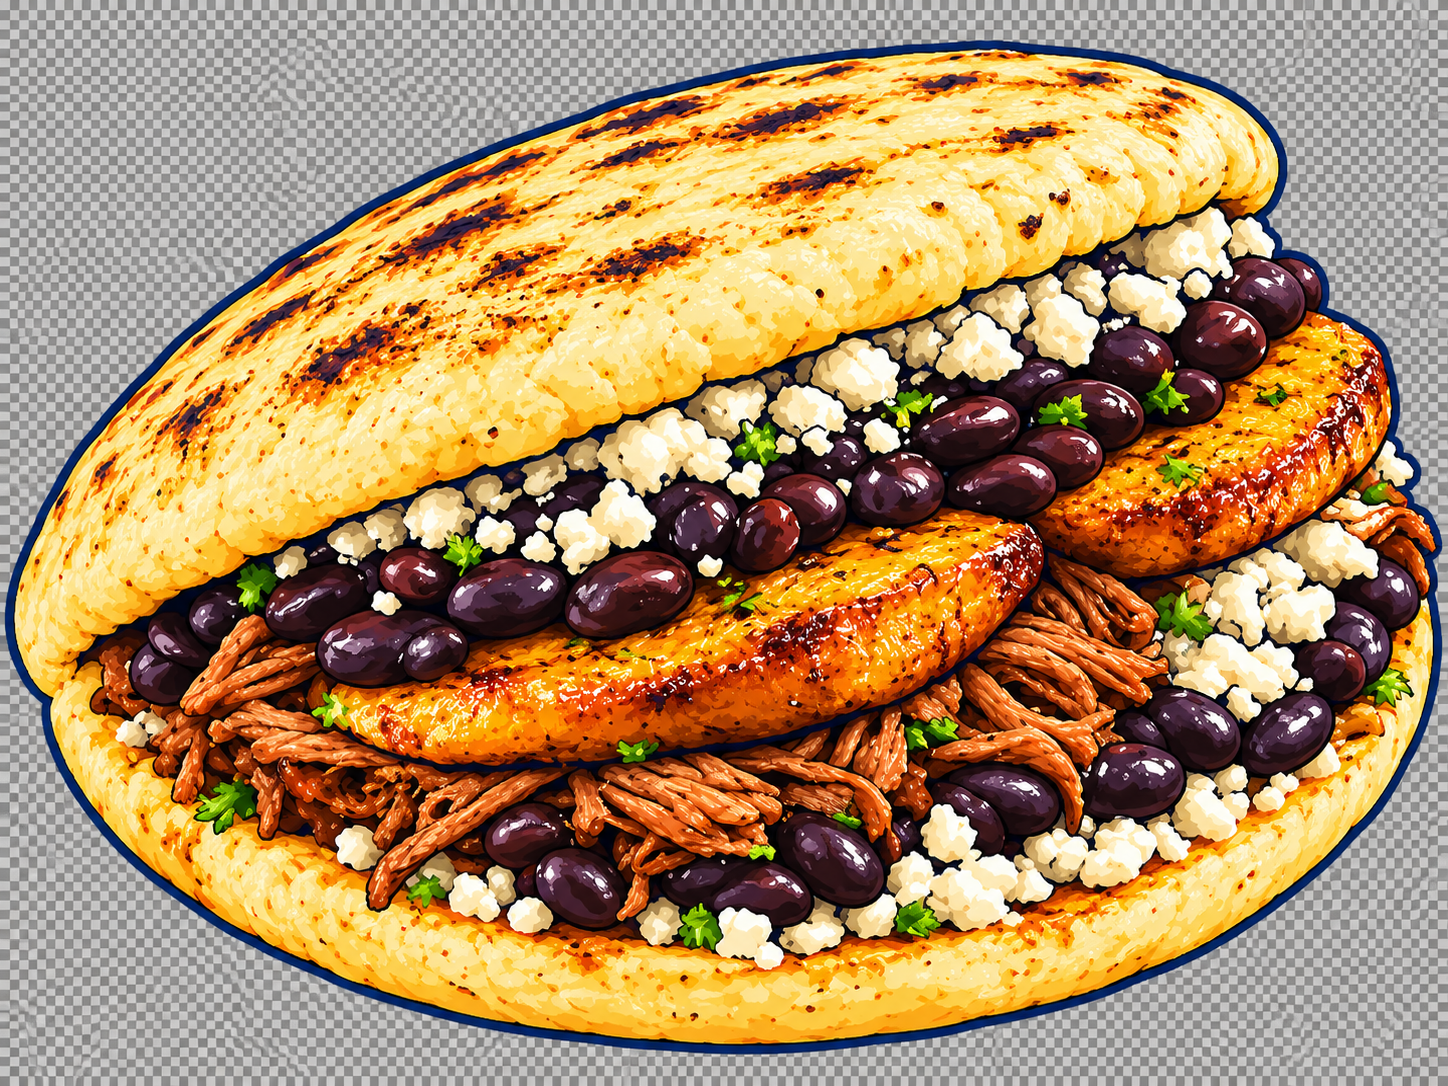
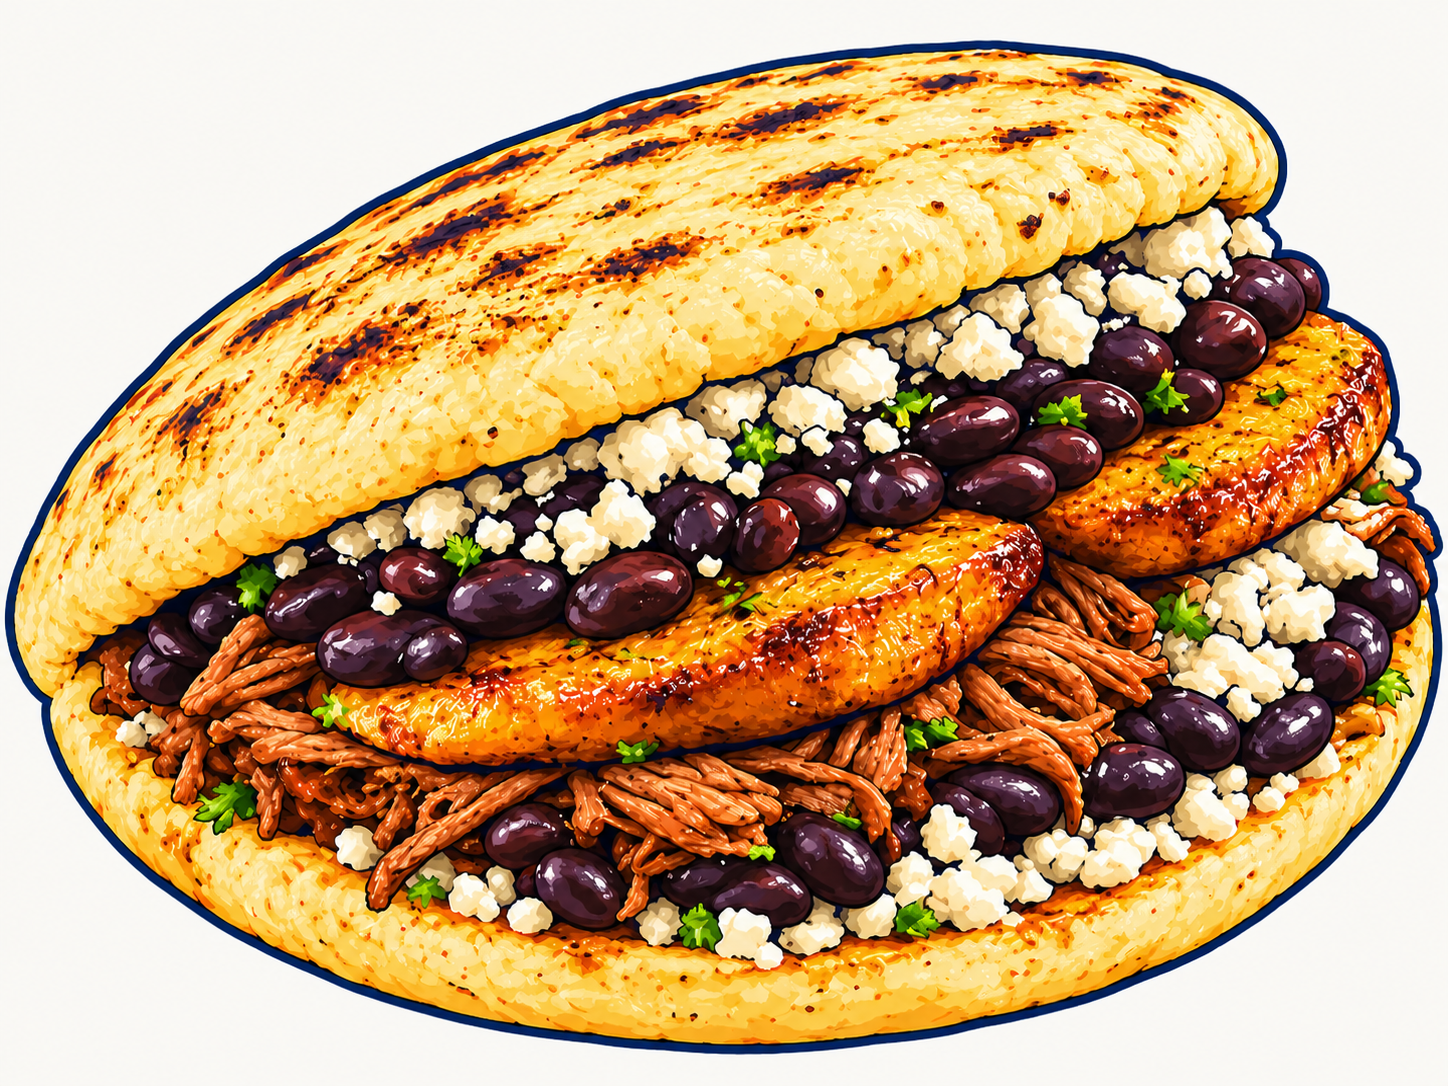
update

diff --git a/src/components/landing/ArepaStack.tsx b/src/components/landing/ArepaStack.tsx
@@ -1,48 +1,6 @@
-import type { CSSProperties } from "react";
-import type { LayerKind } from "@/lib/content";
+import Image from "next/image";
 import { LAYERS } from "@/lib/content";
 import SectionTitle from "./SectionTitle";
-
-// Cortes finos de masa de maíz: caras planas, cantos suaves y tostado de budare.
-const MASA_BACKGROUND = [
-  "radial-gradient(ellipse at 16% 42%, #bd813c80 0 2%, transparent 4%)",
-  "radial-gradient(ellipse at 38% 65%, #b8753380 0 3%, transparent 6%)",
-  "radial-gradient(ellipse at 63% 32%, #c38a4380 0 4%, transparent 7%)",
-  "radial-gradient(ellipse at 84% 60%, #b8753370 0 2%, transparent 5%)",
-  "radial-gradient(circle, #bd813c45 0 1px, transparent 1.5px) 0 0 / 13px 11px",
-  "linear-gradient(180deg, #fff0c9 0%, #f2d08a 65%, #dda85c 100%)",
-].join(", ");
-
-const LAYER_STYLES: Record<LayerKind, { className: string; background: string }> = {
-  top: {
-    className:
-      "w-[92.3%] h-[42px] rounded-[16px]",
-    background: MASA_BACKGROUND,
-  },
-  aguacate: {
-    className: "w-[96%] h-[18px] rounded-full",
-    background: "var(--color-aguacate)",
-  },
-  carne: {
-    className: "w-[98.5%] h-[24px] rounded-full",
-    background:
-      "repeating-linear-gradient(78deg, var(--color-carne) 0 6px, var(--color-carne-dark) 6px 10px)",
-  },
-  queso: {
-    className: "w-[94%] h-[12px] rounded-[14px_30px_14px_30px]",
-    background: "var(--color-queso)",
-  },
-  caraotas: {
-    className: "w-[96%] h-[20px] rounded-full",
-    background:
-      "radial-gradient(circle, var(--color-caraota-light) 0 6px, transparent 7px) 0 0 / 24px 20px, var(--color-caraota)",
-  },
-  bottom: {
-    className:
-      "w-[92.3%] h-[42px] rounded-[16px]",
-    background: MASA_BACKGROUND,
-  },
-};
 
 /** Una arepa completa acompaña las seis piezas del sistema. */
 export default function ArepaStack() {
@@ -58,18 +16,15 @@ export default function ArepaStack() {
 
         <div className="mt-8 grid items-center gap-6 lg:mt-10 lg:grid-cols-[minmax(0,0.85fr)_minmax(0,1.4fr)] lg:gap-12">
           <div className="flex flex-col items-center gap-3">
-            <div aria-hidden="true" className="arepa-scene relative flex h-[240px] w-full max-w-[400px] items-center justify-center sm:h-[260px]">
-              <div className="absolute inset-x-5 inset-y-2 rounded-[50%] bg-gold/20" />
-              <div className="absolute bottom-7 h-5 w-[75%] rounded-[50%] bg-navy/15 blur-md" />
-              <div className="relative flex w-[88%] flex-col items-center">
-                {LAYERS.map((layer, i) => (
-                  <div
-                    key={layer.kind}
-                    className={`arepa-ingredient relative -mt-[3px] border-[3px] border-navy first:mt-0 ${LAYER_STYLES[layer.kind].className}`}
-                    style={{ background: LAYER_STYLES[layer.kind].background, zIndex: LAYERS.length - i, "--layer-offset": `${(i - 2.5) * 14}px` } as CSSProperties}
-                  />
-                ))}
-              </div>
+            <div className="arepa-scene w-full max-w-[400px]">
+              <Image
+                src="/images/arepa-pabellon-ilustrada.png"
+                alt="Ilustración de una arepa venezolana de pabellón con carne mechada, caraotas, plátano y queso blanco"
+                width={1448}
+                height={1086}
+                sizes="(max-width: 432px) calc(100vw - 32px), 400px"
+                className="arepa-illustration block h-auto w-full mix-blend-multiply"
+              />
             </div>
             <p className="font-script text-2xl text-red sm:text-3xl">Todo junto sabe mejor.</p>
           </div>

diff --git a/src/app/globals.css b/src/app/globals.css
@@ -156,7 +156,7 @@
     background-image: radial-gradient(circle at 10px 10px, var(--color-bg) 7px, transparent 7.5px);
   }
 
-  /* Se ensambla al entrar en pantalla; sin soporte, se muestra completa. */
+  /* Entrada suave de la ilustración; estática si se reduce el movimiento. */
   @supports (animation-timeline: view()) {
     @media (prefers-reduced-motion: no-preference) {
       .arepa-scene {
@@ -164,8 +164,8 @@
         view-timeline-axis: block;
       }
 
-      .arepa-ingredient {
-        animation: arepa-assemble linear both;
+      .arepa-illustration {
+        animation: arepa-reveal linear both;
         animation-timeline: --arepa-assembly;
         animation-range: entry 0% cover 35%;
       }
@@ -173,9 +173,9 @@
   }
 }
 
-@keyframes arepa-assemble {
-  from { transform: translateY(var(--layer-offset)); }
-  to { transform: translateY(0); }
+@keyframes arepa-reveal {
+  from { transform: translateY(16px) scale(0.96); opacity: 0.6; }
+  to { transform: translateY(0) scale(1); opacity: 1; }
 }
 
 @media (prefers-reduced-motion: reduce) {

diff --git a/src/components/landing/FinalCta.tsx b/src/components/landing/FinalCta.tsx
@@ -1,9 +1,8 @@
-import Image from "next/image";
 import BrushWord from "@/components/brand/BrushWord";
 import Button from "@/components/brand/Button";
 import { DEMO_HREF, PRICE } from "@/lib/content";
 
-/** CTA final con una arepa venezolana de pabellón. */
+/** Invitación final a solicitar una demo. */
 export default function FinalCta() {
   return (
     <section id="demo" className="bg-gold">
@@ -26,16 +25,6 @@ export default function FinalCta() {
           </p>
         </div>
 
-        <figure className="mt-10 w-full max-w-[420px] sm:mt-12">
-          <Image
-            src="/images/arepa-pabellon.png"
-            alt="Arepa venezolana de maíz tostado, rellena de carne mechada, caraotas, plátano y queso blanco"
-            width={1024}
-            height={1024}
-            sizes="(max-width: 452px) calc(100vw - 32px), 420px"
-            className="h-auto w-full rounded-[32px] border-[3px] border-navy shadow-[8px_10px_0_var(--color-navy)]"
-          />
-        </figure>
       </div>
     </section>
   );

diff --git a/docs/arepa-illustration.md b/docs/arepa-illustration.md
@@ -1,0 +1,15 @@
+# Ilustración de arepa
+
+Asset: `public/images/arepa-pabellon-ilustrada.png`
+
+Source: `/Users/alabrador/arepa-builder/assets/arepa-pabellon.png`
+
+Generated with the built-in image generation tool; style transfer followed by a background correction.
+
+Initial prompt:
+
+Use case: style-transfer. Edit target: attached photo of Venezuelan arepa de pabellón. Create a polished hand-drawn cartoon food illustration for Arepa Builder website. Preserve the recognizable three-quarter angle, flattened circular corn arepa with flat top and bottom, lightly toasted corn crust, shredded beef, black beans, golden fried plantain slices and crumbly white cheese. Stylize with confident dark navy outlines (#063477), warm cream and golden yellow (#FFC400) masa, appetizing rich brown filling, restrained flat cel shading and hand-drawn toasted details. Single complete assembled arepa centered and fully visible with tight balanced padding. Transparent background with actual alpha. No photo background, no plate, no sun or rays, no burger bun, no sesame seeds, no text, no faces, no logos. Wide composition roughly 4:3, food fills frame. Keep it clearly Venezuelan and match a bold playful professional landing page.
+
+Final correction prompt:
+
+Edit this cartoon arepa illustration. Preserve the arepa itself exactly: shape, composition, colors, navy outlines and all fillings. Replace ONLY the gray checkerboard background and any gray wisps with a perfectly solid uniform warm off-white background, exact hex #FAF9F5, matching the website background. Absolutely no checkerboard or transparency simulation. The whole canvas outside the arepa must be solid #FAF9F5. Keep entire arepa visible, same 4:3 composition. No text, no new elements.
